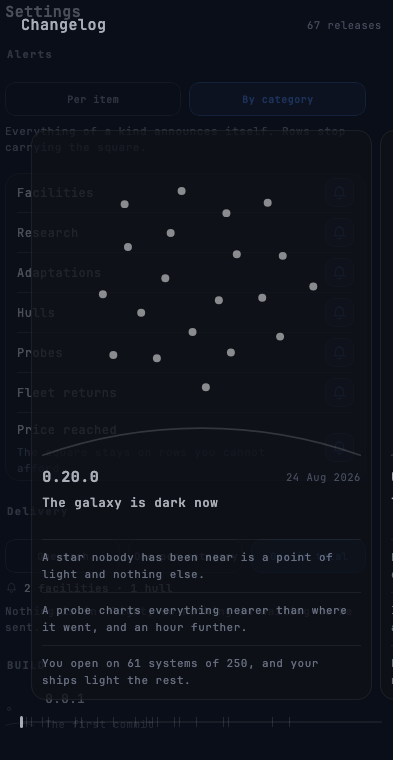
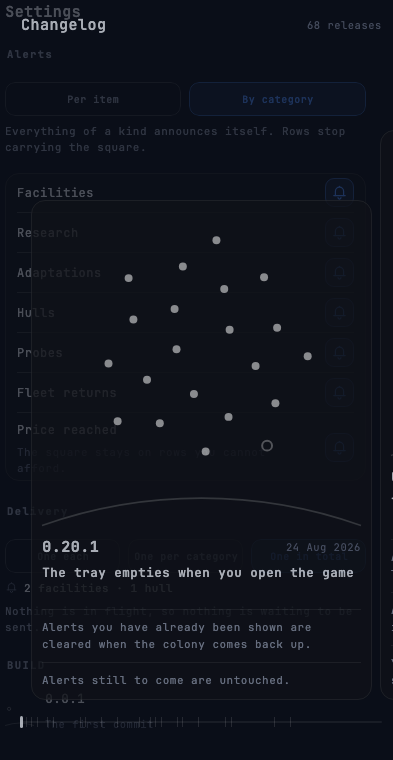
The tray empties when you open the game (0.20.1) (#121)

diff --git a/client/shell/src/desktopTest/kotlin/dev/fardavide/oltre/client/AppBehaviourTest.kt b/client/shell/src/desktopTest/kotlin/dev/fardavide/oltre/client/AppBehaviourTest.kt
@@ -33,6 +33,38 @@ class AppBehaviourTest {
         }
     }
 
+    // **Opening the app is the answer to a tray that has already spoken** (Davide, 2026-08-24, #120).
+    // Every alert sitting with the OS is about something this launch is now showing — the mine that
+    // finished, the hull that left the yard — so leaving them there makes the player dismiss by hand
+    // what the app has just told them properly. It is also the only lever the delivery target gives
+    // us on `One in total`, where the stack is what accumulates.
+    @Test
+    fun `opening the app clears alerts the player has already been shown`() {
+        app(saved = null) {
+            assertTrayCleared(times = 1)
+        }
+    }
+
+    // The other half, and the one that would bite: a clear folded into `commit` would run on every
+    // tap and — because the tick loop outlives the foreground on Android — would wipe an alarm the
+    // system had just posted, seconds before it was read. So the count must not move when the player
+    // acts.
+    @Test
+    fun `acting inside the app does not clear the tray again`() {
+        // A minute old and unfunded, for `tapping a square books the alert it promised`'s reason: an
+        // affordable row carries an Upgrade button and no square to tap at all.
+        app(saved = snapshot(state = colony(), agedBy = 1.minutes)) {
+            assertTrayCleared(times = 1)
+
+            tapTheWatchOn(BuildingType.METAL_MINE)
+
+            // The tap committed — `tapping a square books the alert it promised` measures that — and
+            // the tray was left exactly as the launch left it.
+            assertAlertsBooked(1)
+            assertTrayCleared(times = 1)
+        }
+    }
+
     @Test
     fun `a colony resumed from a save opens with the rail already reading its rates`() {
         // given a colony saved two days ago. What it accrued in between is `resume`'s business and

diff --git a/client/shell/src/commonTest/kotlin/dev/fardavide/oltre/client/CommitTest.kt b/client/shell/src/commonTest/kotlin/dev/fardavide/oltre/client/CommitTest.kt
@@ -43,6 +43,24 @@ class CommitTest {
         assertEquals(1, scheduler.scheduled.size)
     }
 
+    // **The seam this has to be measured at**, because `commit` is the one thing that runs without a
+    // player in front of it: the shell's tick loop calls it whenever an event lands, and on Android
+    // that loop outlives the foreground. A clear folded in here would take down the alarm the system
+    // had posted moments before, and the colony would look as though it had never announced anything.
+    // Opening the app is the only thing that clears — see `App`'s launch effect.
+    @Test
+    fun `committing never takes down an alert the player has already been shown`() = runTest {
+        // given a colony with a build running
+        val scheduler = RecordingScheduler()
+        val session = GameSession(midBuild(), EPOCH)
+
+        // when
+        session.commit(GameStore(RecordingSaveFile()), GameNotifications(scheduler, English))
+
+        // then
+        assertEquals(0, scheduler.clearCount)
+    }
+
     @Test
     fun `alerts are booked against the instant the session is accurate as of`() = runTest {
         // given a build that finishes half an hour in, and a session already past it
@@ -128,8 +146,15 @@ private class RecordingScheduler : NotificationScheduler {
     var replaceCount: Int = 0
         private set
 
+    var clearCount: Int = 0
+        private set
+
     override suspend fun replaceAll(notifications: List<LocalNotification>) {
         scheduled = notifications
         replaceCount++
+    }
+
+    override suspend fun clearDelivered() {
+        clearCount++
     }
 }

diff --git a/client/shell/src/commonMain/kotlin/dev/fardavide/oltre/client/App.kt b/client/shell/src/commonMain/kotlin/dev/fardavide/oltre/client/App.kt
@@ -298,6 +298,22 @@ fun App(
             }
 
             LaunchedEffect(Unit) {
+                // **First, and before anything is read.** Every alert the OS is holding is about
+                // something this launch is about to show properly, so it has already done its job —
+                // and on iPhone it is the only lever `One in total` has, because a delivered
+                // notification cannot be updated while the app is shut (#120).
+                //
+                // Here rather than in `commit` deliberately: this fires when the player *opens* the
+                // app, and a clear folded into the commit would fire on every tap and — the tick loop
+                // outliving the foreground on Android — in the background, wiping an alarm seconds
+                // after it posted. See `NotificationScheduler.clearDelivered`.
+                //
+                // **What it does not cover is a warm resume**, because this effect runs once per
+                // composition and returning from the background does not start a new one. On the
+                // delivery target that is the smaller half — iOS terminates backgrounded apps freely,
+                // and a notification tapped after one is a cold launch — but it is a real gap, and
+                // closing it needs a foreground signal the shell does not have today.
+                notifications.clearDelivered()
                 val saved = store.load()
                 hadSave = saved != null
                 val wall = wallClock.now()

diff --git a/client/notifications/data/src/commonTest/kotlin/dev/fardavide/oltre/client/notifications/data/GameNotificationsTest.kt b/client/notifications/data/src/commonTest/kotlin/dev/fardavide/oltre/client/notifications/data/GameNotificationsTest.kt
@@ -64,6 +64,37 @@ class GameNotificationsTest {
         assertEquals(emptyList(), scheduler.scheduled)
     }
 
+    // ── Clearing what has already been delivered ────────────────────────────────────────────
+
+    @Test
+    fun `clearing the tray reaches the platform`() = runTest {
+        // given
+        val scheduler = FakeNotificationScheduler()
+
+        // when
+        GameNotifications(scheduler, English).clearDelivered()
+
+        // then
+        assertEquals(1, scheduler.clearCount)
+    }
+
+    // **The rule that keeps the two apart**, and it is a correctness rule rather than tidiness. A
+    // sync runs on every discrete transition, and on Android the tick loop goes on running while the
+    // app is backgrounded — so a sync that also wiped the tray would delete the alert the alarm had
+    // just posted, seconds before the player looked at it. Clearing is the *player opening the app*,
+    // which only the shell knows about; see `App`'s launch effect.
+    @Test
+    fun `syncing leaves delivered alerts alone`() = runTest {
+        // given
+        val scheduler = FakeNotificationScheduler()
+
+        // when
+        GameNotifications(scheduler, English).sync(building(BuildingType.METAL_MINE), now = EPOCH)
+
+        // then
+        assertEquals(0, scheduler.clearCount)
+    }
+
     @Test
     fun `a running build is announced at the instant it completes`() = runTest {
         // given

diff --git a/client/notifications/data/src/commonMain/kotlin/dev/fardavide/oltre/client/notifications/data/NotificationScheduler.kt b/client/notifications/data/src/commonMain/kotlin/dev/fardavide/oltre/client/notifications/data/NotificationScheduler.kt
@@ -60,6 +60,22 @@ interface NotificationScheduler {
     // Best effort, like a save write. There is no surface in the game to report a refused
     // permission to, and the next transition schedules the whole set again.
     suspend fun replaceAll(notifications: List<LocalNotification>)
+
+    // **Everything the OS has already put in front of the player, taken back down.** The other half
+    // of the seam, and deliberately a second method rather than a step inside `replaceAll`: the two
+    // answer to different triggers. A booking is derived from state and re-derived on every discrete
+    // transition; a clear is the *player opening the app*, which is a fact about attention that no
+    // amount of game state implies.
+    //
+    // **Folding it into `replaceAll` would be a live defect rather than a tidiness question.** A sync
+    // runs on every transition, and on Android the shell's tick loop goes on running while the app is
+    // backgrounded — so a clearing sync would delete the alert the alarm had posted moments earlier,
+    // and the player would find an empty tray for a mine that really had finished. See
+    // `GameNotificationsTest.syncing leaves delivered alerts alone`.
+    //
+    // Pending bookings are untouched: what is scheduled is still going to fire, and `replaceAll` is
+    // the only thing that decides that. Best effort for the same reason as above.
+    suspend fun clearDelivered()
 }
 
 // The platform's notification service. Called once, at the composition root.

diff --git a/client/shell/src/desktopTest/kotlin/dev/fardavide/oltre/client/AppRobot.kt b/client/shell/src/desktopTest/kotlin/dev/fardavide/oltre/client/AppRobot.kt
@@ -162,6 +162,14 @@ internal class AppRobot(private val test: ComposeUiTest, private val booked: Rec
         assertEquals(count, booked.scheduled.size, "booked: ${booked.scheduled.map { it.id }}")
     }
 
+    // The other half of the platform seam, and the one no test below the composition root can see:
+    // whether *opening* the app wiped what the OS had already put in front of the player. Counted
+    // rather than asserted true, because the number is the thing that could go wrong — a clear that
+    // rode along with every commit would fire on every tap and, on Android, in the background.
+    fun assertTrayCleared(times: Int) = apply {
+        assertEquals(times, booked.clearCount, "clearDelivered calls")
+    }
+
     // The Shipyard's other control, and the one with no words on it at all — so, like the colony's
     // square, it is reached by tag. What it *shows* is a bell and no query can read a Canvas; what
     // this can drive is the cycle, and what that cycle is worth is the alert count above.
@@ -343,8 +351,15 @@ internal class RecordingNotifications : NotificationScheduler {
     var scheduled: List<LocalNotification> = emptyList()
         private set
 
+    var clearCount: Int = 0
+        private set
+
     override suspend fun replaceAll(notifications: List<LocalNotification>) {
         scheduled = notifications
+    }
+
+    override suspend fun clearDelivered() {
+        clearCount++
     }
 }
 

diff --git a/client/notifications/data/src/iosMain/kotlin/dev/fardavide/oltre/client/notifications/data/DefaultNotificationScheduler.ios.kt b/client/notifications/data/src/iosMain/kotlin/dev/fardavide/oltre/client/notifications/data/DefaultNotificationScheduler.ios.kt
@@ -61,6 +61,18 @@ private class IosNotificationScheduler : NotificationScheduler {
         }
     }
 
+    // **The one thing iOS will let this game do about a tray it cannot update.** `One in total`
+    // promises a single notification kept current and on iPhone delivers a stack, because replacing a
+    // *delivered* notification needs a request under the same identifier and nothing here runs while
+    // the app is shut — see #120. Clearing on open does not fix that; it bounds it, to one check-in's
+    // worth rather than every alert since the app was last opened.
+    //
+    // Delivered only. `removeAllPendingNotificationRequests` is `replaceAll`'s business and calling it
+    // here would cancel the schedule the launch is about to re-derive.
+    override suspend fun clearDelivered() {
+        UNUserNotificationCenter.currentNotificationCenter().removeAllDeliveredNotifications()
+    }
+
     // Asked once per launch, on the first sync — which is the app's first frame, when the
     // colony is loaded. Deliberately not deferred to a "better moment": the alerts *are* the
     // game on this platform, so a player who declines has understood what they declined.

diff --git a/client/notifications/data/src/androidMain/kotlin/dev/fardavide/oltre/client/notifications/data/DefaultNotificationScheduler.android.kt b/client/notifications/data/src/androidMain/kotlin/dev/fardavide/oltre/client/notifications/data/DefaultNotificationScheduler.android.kt
@@ -1,6 +1,7 @@
 package dev.fardavide.oltre.client.notifications.data
 
 import android.app.AlarmManager
+import android.app.NotificationManager
 import android.app.PendingIntent
 import android.content.Context
 import android.content.Intent
@@ -57,6 +58,16 @@ private class AndroidNotificationScheduler(private val context: Context) : Notif
             scheduled += notification.id
         }
         store.edit().putStringSet(SCHEDULED_IDS, scheduled).apply()
+    }
+
+    // The tray, not the schedule. `NotificationManager.cancelAll` takes down what this app has
+    // *posted*; the alarms that have not fired yet are `replaceAll`'s business and are untouched —
+    // cancelling those here would drop the schedule the launch is about to re-derive.
+    //
+    // Scoped to this app by the API itself: `cancelAll` reaches only notifications posted by this
+    // process's package, so there is nothing of anyone else's to take down by accident.
+    override suspend fun clearDelivered() {
+        context.getSystemService(NotificationManager::class.java).cancelAll()
     }
 
     // `setAndAllowWhileIdle`, deliberately, and it is the one place Android is meaningfully

diff --git a/client/notifications/data/src/commonMain/kotlin/dev/fardavide/oltre/client/notifications/data/GameNotifications.kt b/client/notifications/data/src/commonMain/kotlin/dev/fardavide/oltre/client/notifications/data/GameNotifications.kt
@@ -66,6 +66,21 @@ class GameNotifications(
             },
         )
     }
+
+    // **What opening the app is worth to a tray that has already spoken** (Davide, 2026-08-24, #120).
+    // Every alert sitting with the OS is about something the launch is now showing properly — the
+    // mine that finished, the hull that left the yard — so leaving them there asks the player to
+    // dismiss by hand what they have just been told.
+    //
+    // Nothing game-shaped happens here, which is why it takes no state and does no arithmetic: it is
+    // a pass-through, and it is on this class rather than called on the scheduler directly because
+    // `GameNotifications` is the whole of what the shell is handed. See `NotificationScheduler` for
+    // why this is not a step inside `sync`, and #120 for what it does and does not fix — on iPhone it
+    // narrows `One in total`'s stack to one check-in's worth without touching the reason there is a
+    // stack at all.
+    suspend fun clearDelivered() {
+        scheduler.clearDelivered()
+    }
 }
 
 // **iOS keeps only the 64 soonest-firing pending requests and silently drops the rest.** That is

diff --git a/client/notifications/data/src/desktopTest/kotlin/dev/fardavide/oltre/client/notifications/data/PrintingNotificationSchedulerTest.kt b/client/notifications/data/src/desktopTest/kotlin/dev/fardavide/oltre/client/notifications/data/PrintingNotificationSchedulerTest.kt
@@ -44,6 +44,17 @@ class PrintingNotificationSchedulerTest {
         assertTrue("${notification.at}" in printed, "the instant is the thing being checked")
     }
 
+    // There is no tray on the dev loop, so what is worth seeing is that the launch asked — the same
+    // argument as "nothing pending" above.
+    @Test
+    fun `clearing the tray says so even though desktop has no tray`() = runTest {
+        val printed = capturingOutput {
+            defaultNotificationScheduler().clearDelivered()
+        }
+
+        assertTrue("tray cleared" in printed, "was '$printed'")
+    }
+
     private suspend fun capturingOutput(block: suspend () -> Unit): String {
         val captured = ByteArrayOutputStream()
         val original = System.out

diff --git a/client/changelog/presentation/src/commonMain/kotlin/dev/fardavide/oltre/client/changelog/presentation/ItalianChangelog.kt b/client/changelog/presentation/src/commonMain/kotlin/dev/fardavide/oltre/client/changelog/presentation/ItalianChangelog.kt
@@ -15,6 +15,11 @@ object ItalianChangelog : ChangelogText {
 
     override val releases: List<Release> = listOf(
         release(
+            "0.20.1", "2026-08-24", "Aprire il gioco svuota le notifiche",
+            "Gli avvisi che hai già letto spariscono quando riapri la colonia.",
+            "Quelli ancora da arrivare restano al loro posto.",
+        ),
+        release(
             "0.20.0", "2026-08-24", "Ora la galassia è al buio",
             "Una stella dove nessuno è stato è un punto di luce e nulla più.",
             "Una sonda mappa tutto ciò che è più vicino di dove va, e un'ora oltre.",

diff --git a/client/changelog/presentation/src/commonMain/kotlin/dev/fardavide/oltre/client/changelog/presentation/EnglishChangelog.kt b/client/changelog/presentation/src/commonMain/kotlin/dev/fardavide/oltre/client/changelog/presentation/EnglishChangelog.kt
@@ -16,6 +16,11 @@ object EnglishChangelog : ChangelogText {
 
     override val releases: List<Release> = listOf(
         release(
+            "0.20.1", "2026-08-24", "The tray empties when you open the game",
+            "Alerts you have already been shown are cleared when the colony comes back up.",
+            "Alerts still to come are untouched.",
+        ),
+        release(
             "0.20.0", "2026-08-24", "The galaxy is dark now",
             "A star nobody has been near is a point of light and nothing else.",
             "A probe charts everything nearer than where it went, and an hour further.",
